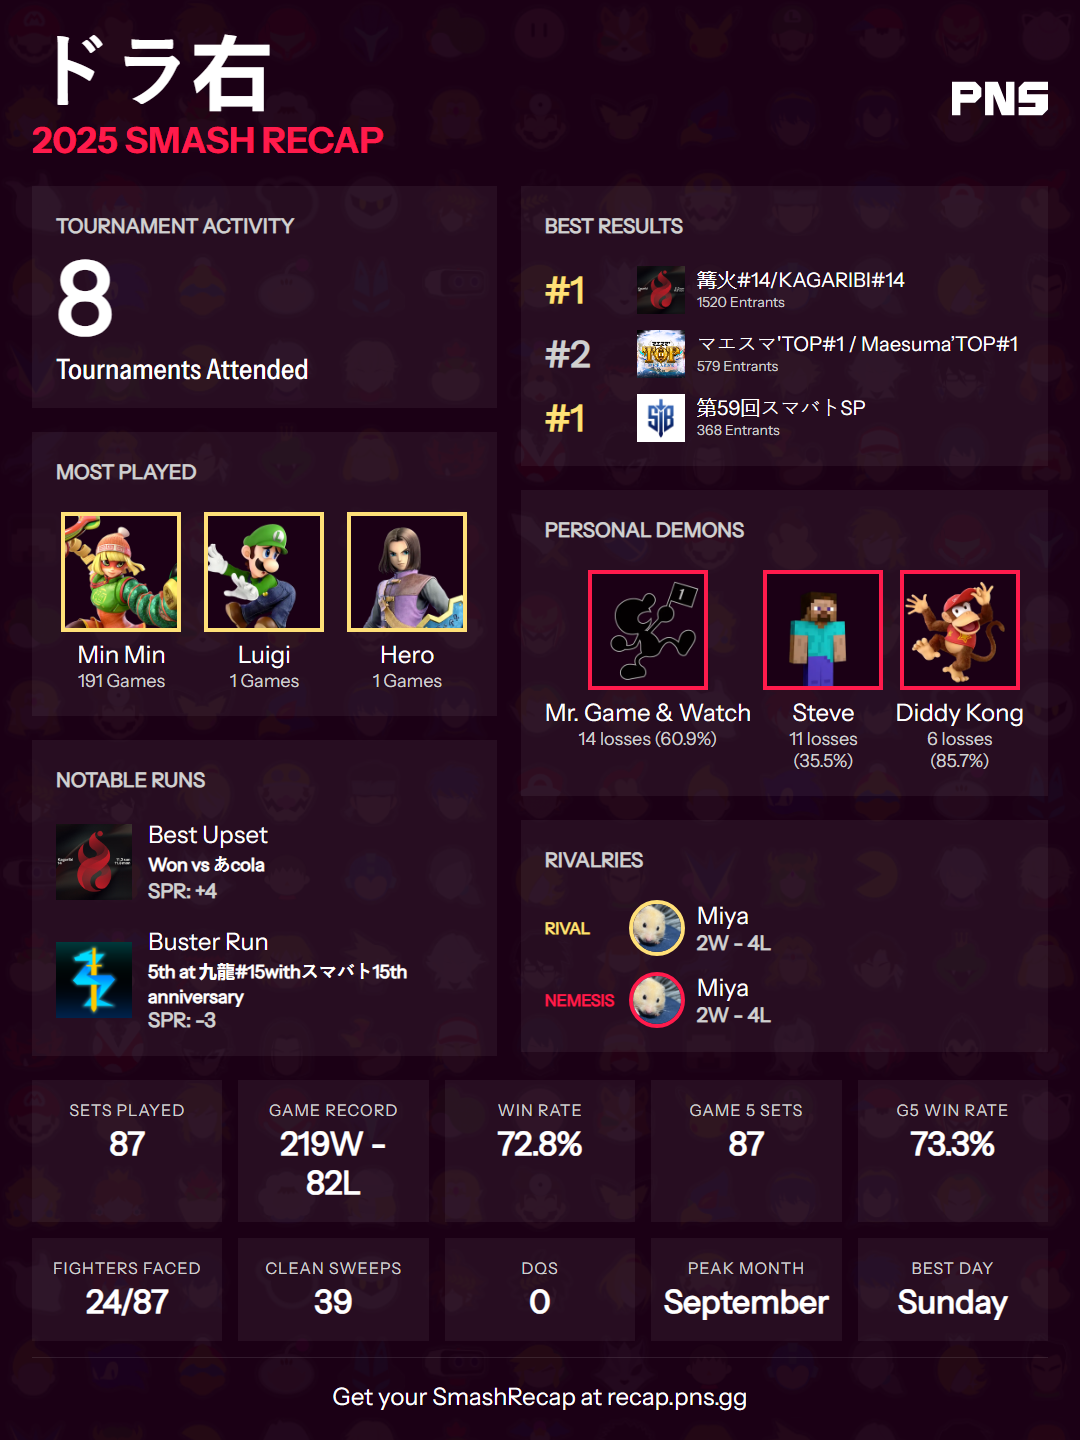
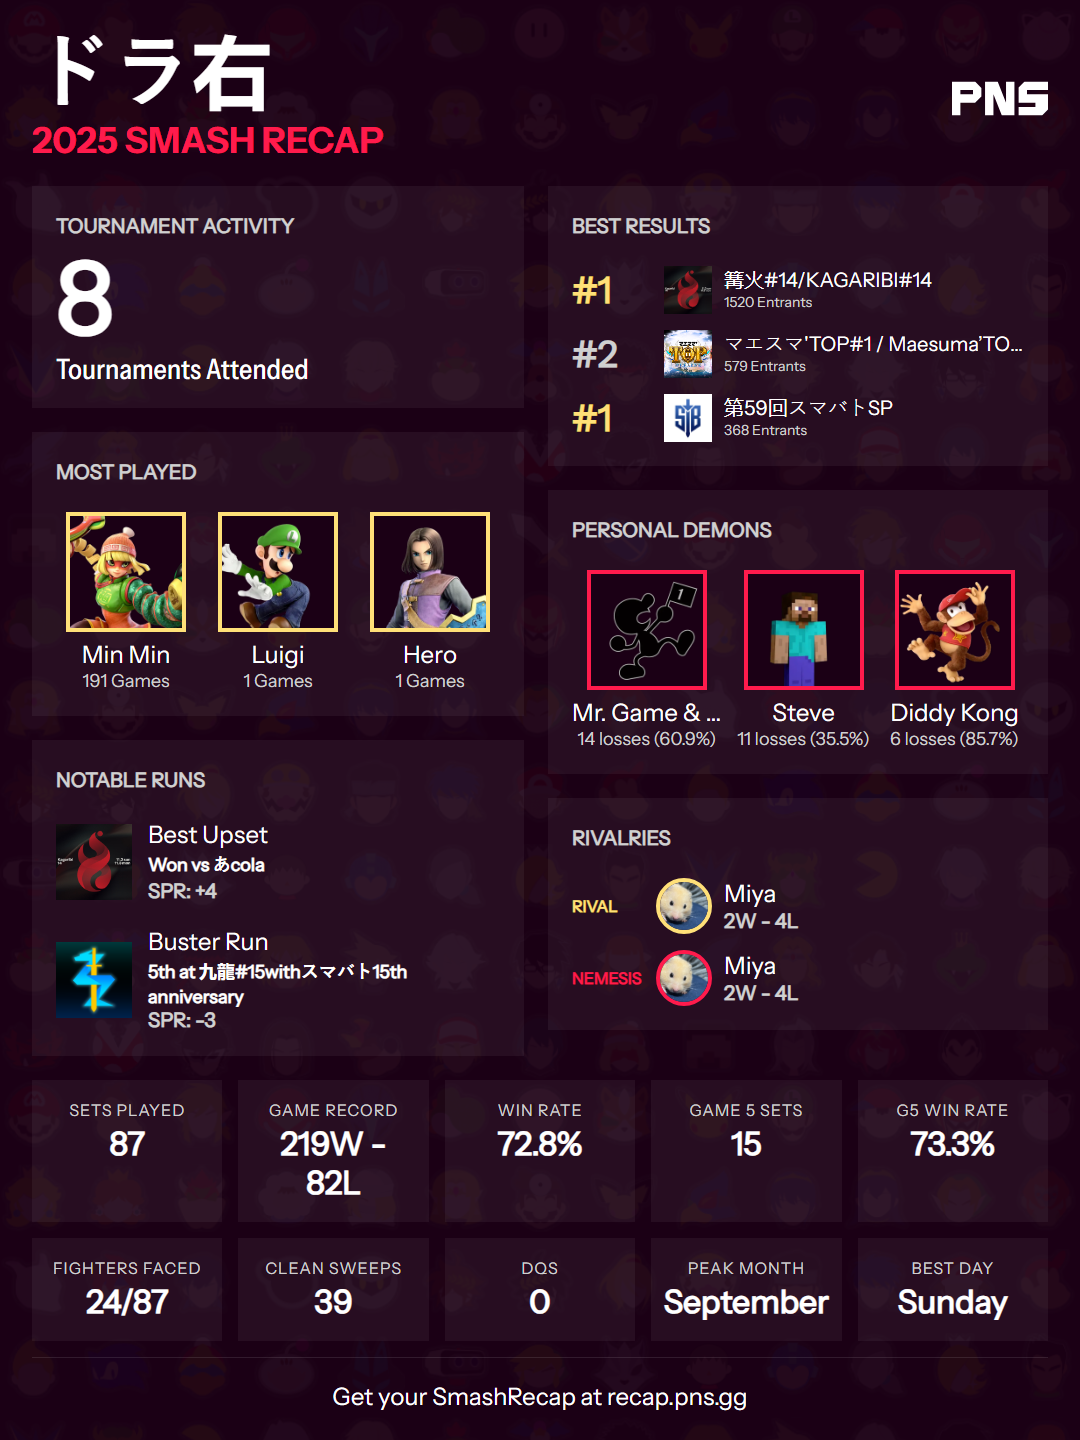
fix: parseMatch

diff --git a/src/lib/startgg/helpers.ts b/src/lib/startgg/helpers.ts
@@ -264,6 +264,18 @@ export const parseMatch = (match: string): ParsedMatch | 'DQ' => {
     const lastSpaceIndex = part.lastIndexOf(' ');
 
     const name = part.slice(0, lastSpaceIndex);
+    const slice = part.slice(lastSpaceIndex + 1, part.length);
+    if (slice === 'L')
+      return {
+        name,
+        score: 0
+      };
+    if (slice === 'W')
+      return {
+        name,
+        score: 1
+      };
+
     const score = parseInt(part.slice(lastSpaceIndex + 1, part.length), 10);
 
     return {
@@ -851,7 +863,7 @@ export const computeGameStats = (
       const user = parsed.find((p) => aliases.has(p.name));
       const opponent = parsed.find((p) => !aliases.has(p.name));
 
-      if (user && opponent && !Number.isNaN(user.score) && !Number.isNaN(opponent.score)) {
+      if (user && opponent) {
         won += user.score;
         lost += opponent.score;
       }
